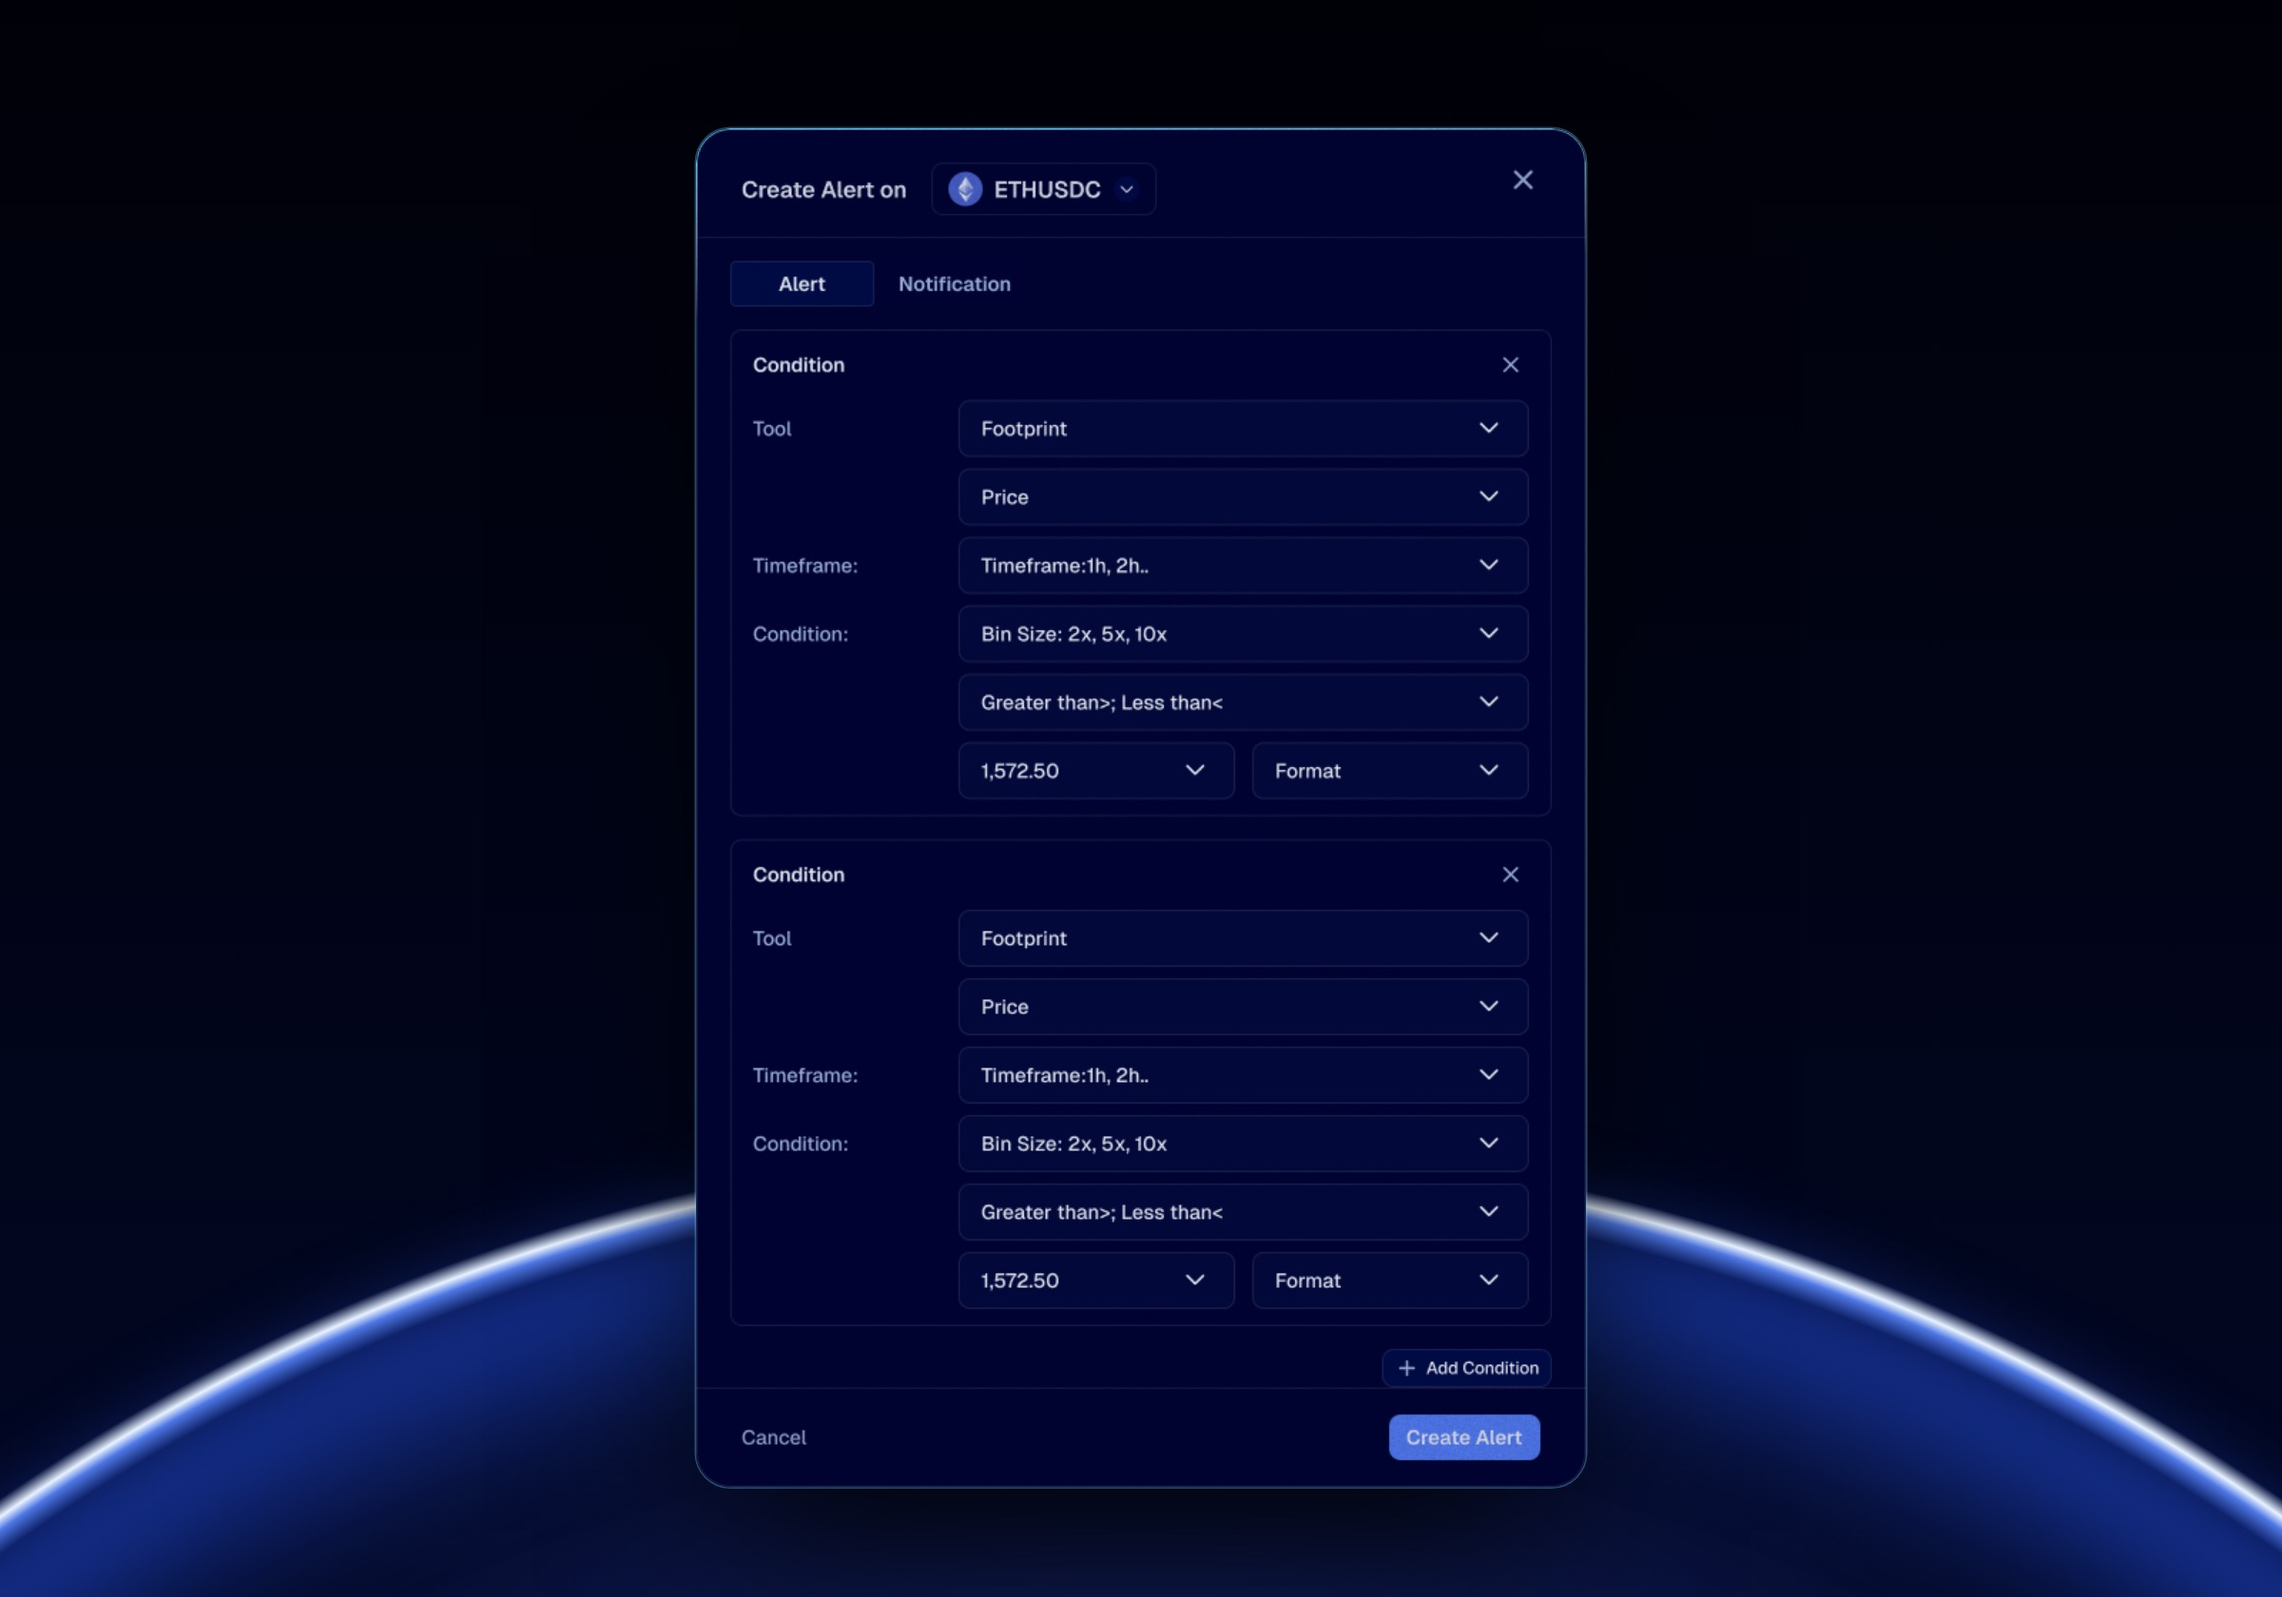
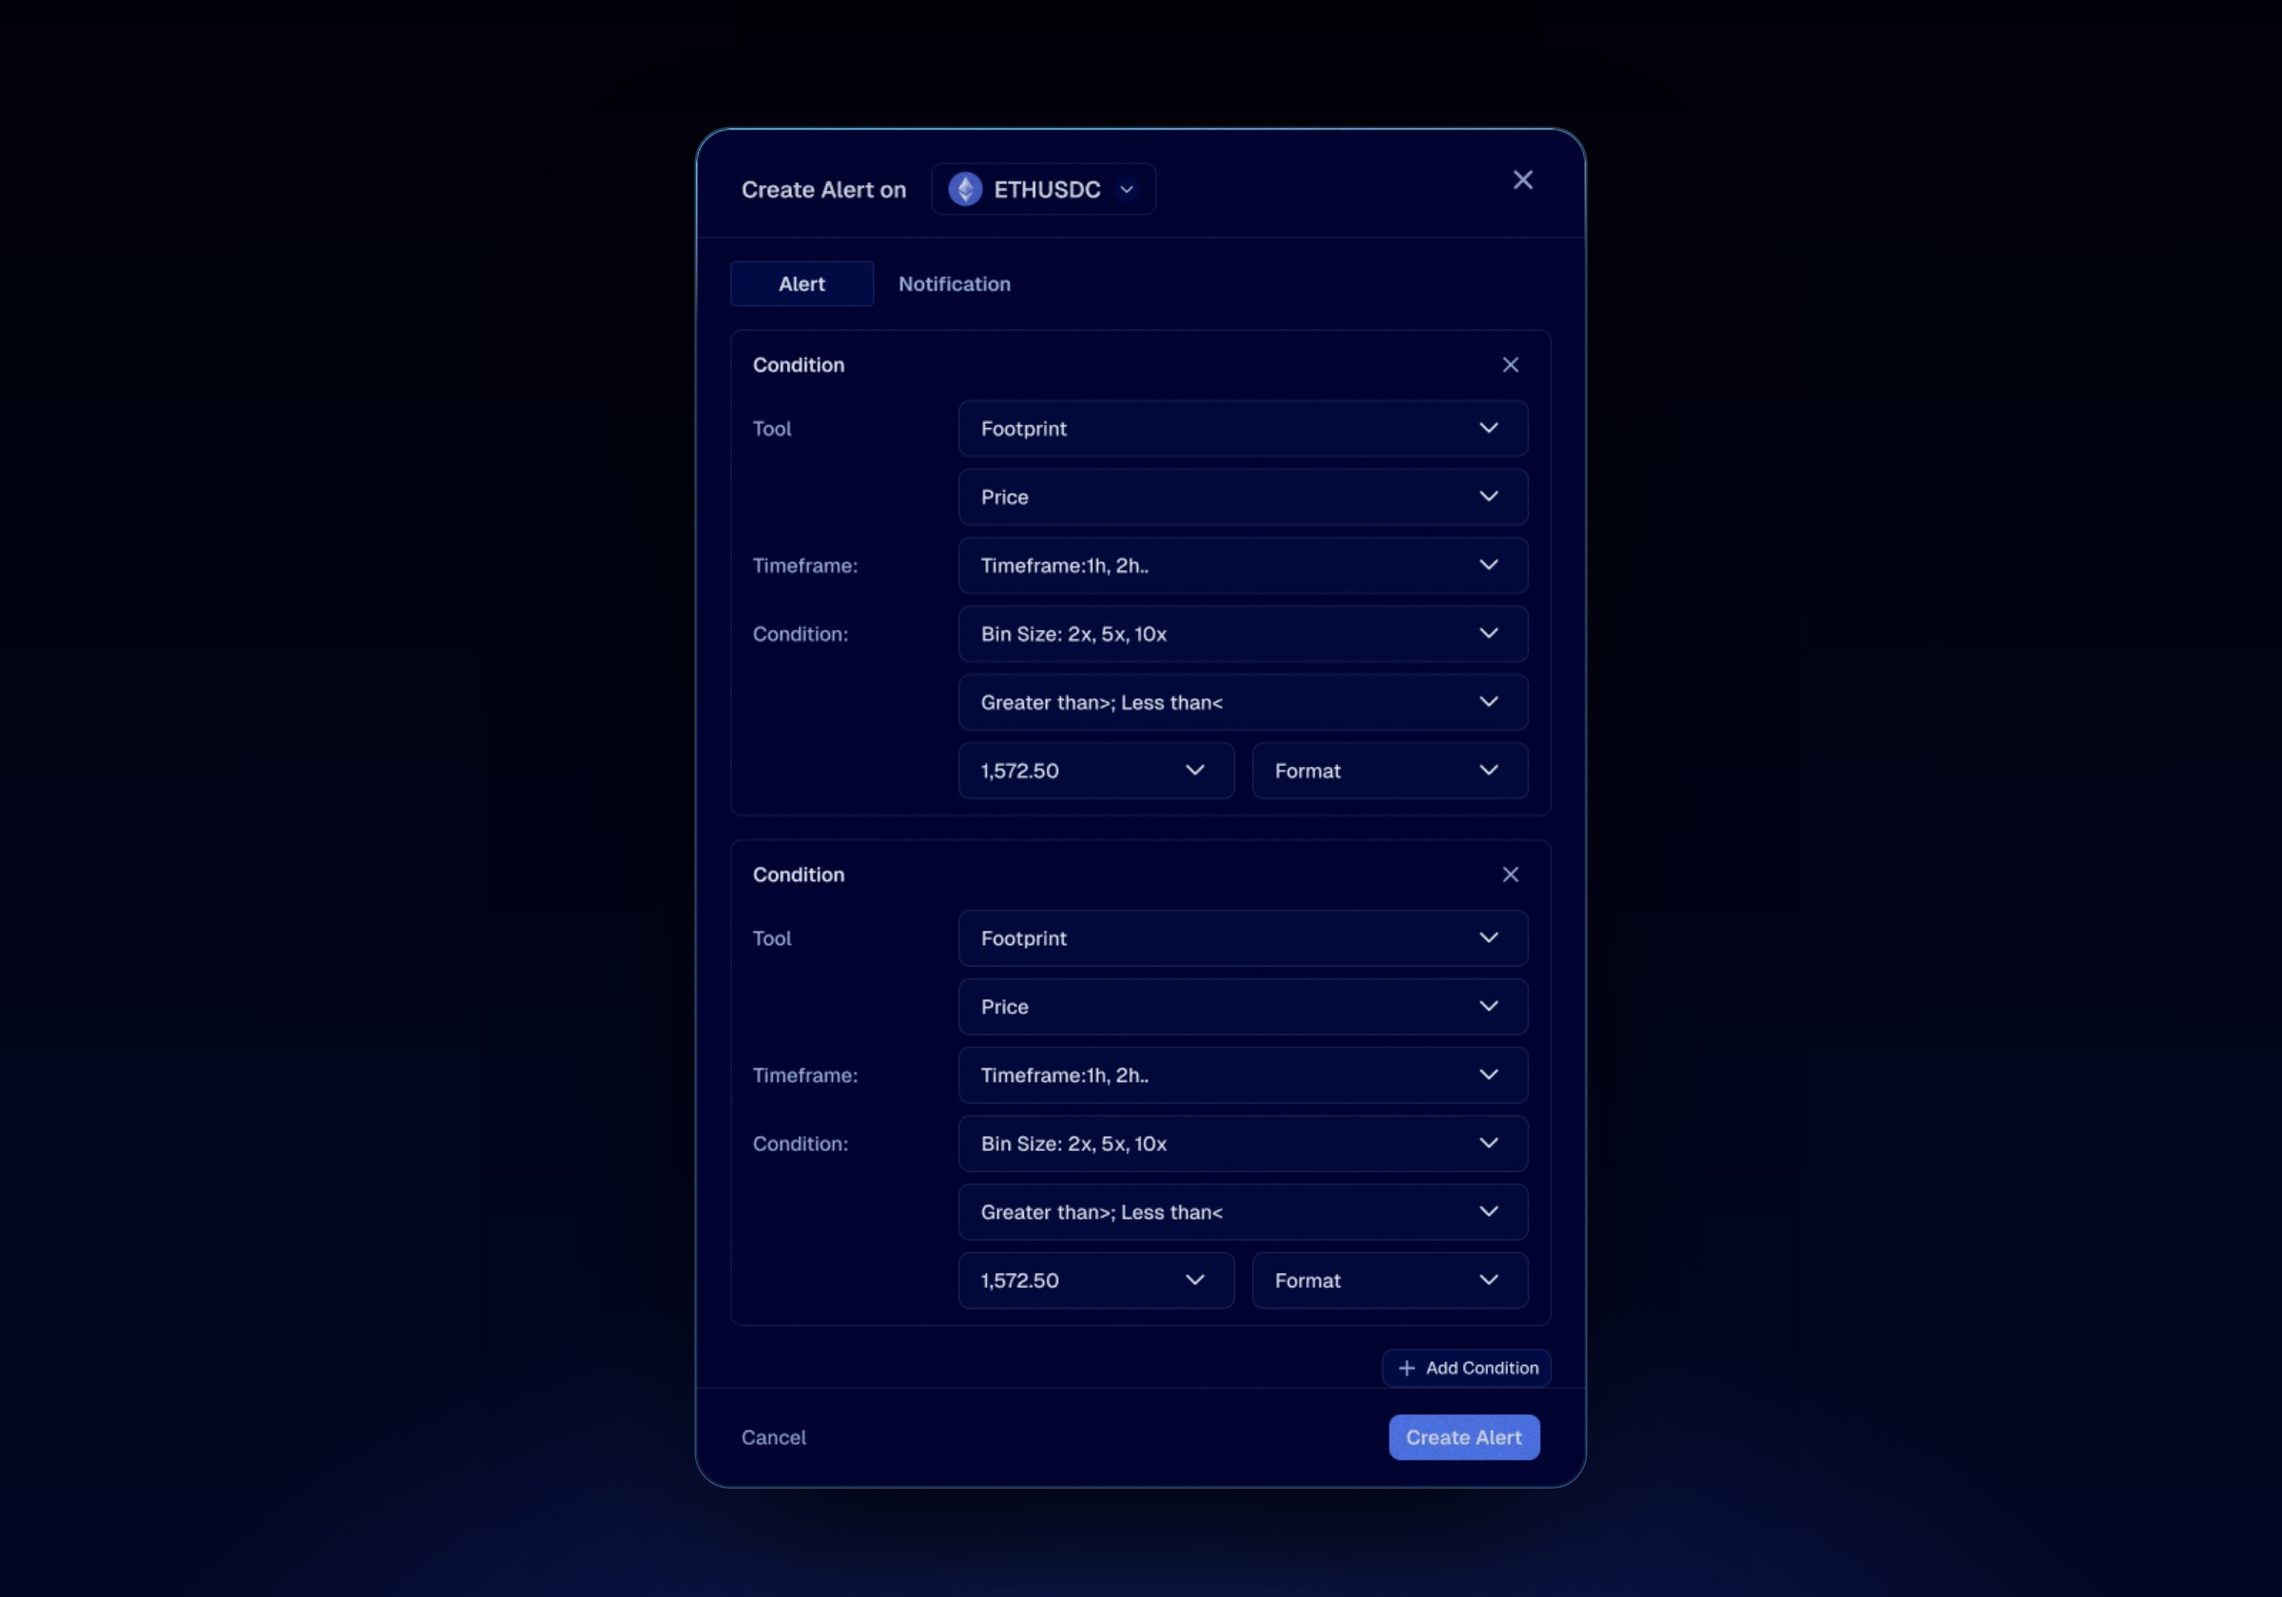
Jaadu modules: remove the arc glow from the backgrounds
Claude-Session: https://claude.ai/code/session_01L48ecgvWMXiCwrAdC3aGTG

Changed region(s): [[0.6875, 0.7429, 1.0, 1.0], [0.0, 0.7429, 0.3125, 1.0]]

diff --git a/scripts/mockups/jaadu/final.html b/scripts/mockups/jaadu/final.html
@@ -23,7 +23,7 @@ body{margin:0;background:#fff}
 <div id="root"></div>
 <script>
 const R='real/'
-const arcs=(cx,top,d)=>`<div class="arc halo" style="left:${cx-d/2}px;top:${top}px;width:${d}px;height:${d}px"></div><div class="arc ring" style="left:${cx-d/2}px;top:${top}px;width:${d}px;height:${d}px"></div>`
+const arcs=()=>""
 const M=(id,h,inner,cls='')=>`<div class="m ${cls}" id="${id}" style="height:${h}px">${inner}</div>`
 const frame=(src,w,l,t,crop='')=>`<div class="frame" style="left:${l}px;top:${t}px"><img src="${R}${src}" style="width:${w}px;${crop}"></div>`
 const card=(src,w,l,t,r=28)=>`<div class="card" style="left:${l}px;top:${t}px;width:${w}px;border-radius:${r}px"><img src="${R}${src}"></div>`
@@ -33,7 +33,7 @@ const phone=(src,k,l,t)=>`<div class="dev" style="left:${l}px;top:${t}px;transfo
 // 1 footprint desktop
 S.push(M('m1',1000,frame('s-footprint.png',1400,88,96)))
 // 2 regime gauge
-S.push(M('m2',860,arcs(800,560,2600)+card('c-regime.png',980,310,150,44),'b'))
+S.push(M('m2',700,card('c-regime.png',980,310,122,44),'b'))
 // 3 overnight discoveries on a MacBook Pro
 S.push(M('m3',1000,`<div class="shadow" style="left:220px;top:860px;width:1160px;height:90px"></div>`+dev('device-macbook-pro device-spacegray','s-overnight.png',1.9,97,90)+`<div class="floor"></div>`,'b'))
 // 4 multi-condition alert, zoomed crop
